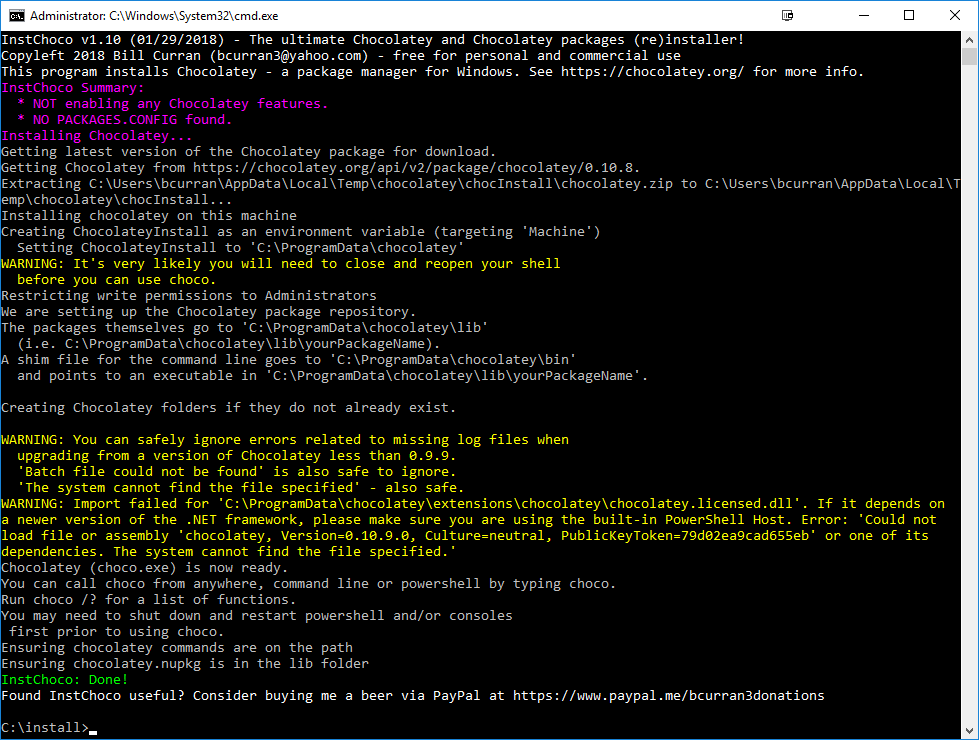
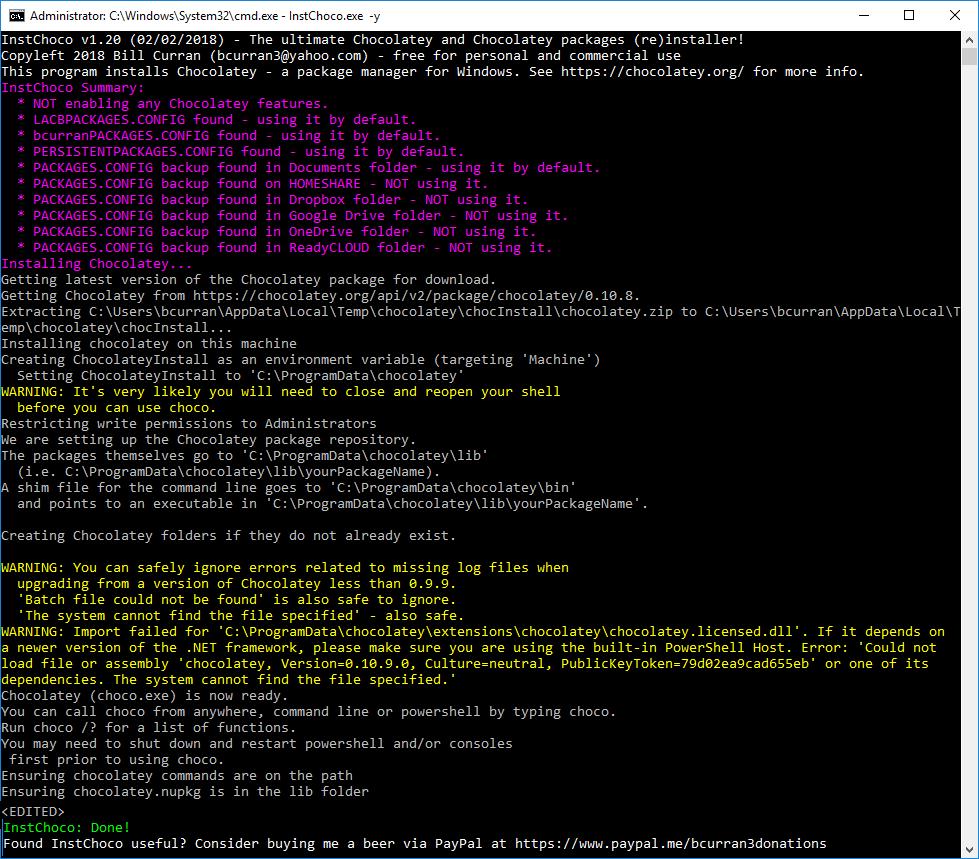
Add files via upload

Changed region(s): [[0.0, 0.0, 1.0, 1.0], [0.8274, 0.2176, 0.9499, 0.2797], [0.7661, 0.2176, 0.7967, 0.2486]]

diff --git a/InstChoco/readme.md b/InstChoco/readme.md
@@ -2,11 +2,19 @@
 
 * A BCURRAN3 original! So of course I endorse and use it. :)
 * Five second delay after running **InstChoco** is purposeful.
+* It is not recommended to run InstChoco without the -ynp switch on servers if you are using the Windows Active Directory Domain features!
 
 ROADMAP:
+* Possibly add domain security group specific package support; i.e. MARKETING needs GIMP but DEVELOPMENT doesn't. DEVELOPMENT needs NOTEPAD++ but MARKETING doesn't.
+* Possibly add server specific support; i.e. Servers don't need all the packages that your workstations get from the packages in your domain package list. 
 * Add ability to use a different source other than the Chocolatey public repository (Low priority unless someone asks.)
-* Add default domain packages install support.
 * I'm open to suggestions - open a GitHub issue please.
+
+v1.20 CHANGE LOG:
+* Added domain support to install predefined packages for domain joined computers and user specific packages.
+
+v1.11 CHANGE LOG: (unreleased)
+* Added -ynp switch to skip installation of packages (Install Chocolatey only)
 
 v1.10 CHANGE LOG:
 * Added [Choco Package List Backup to Local and Cloud](https://chocolatey.org/packages/choco-package-list-backup) and [choco persistent packages](https://chocolatey.org/packages/choco-persistent-packages) support for package (re)installation.
